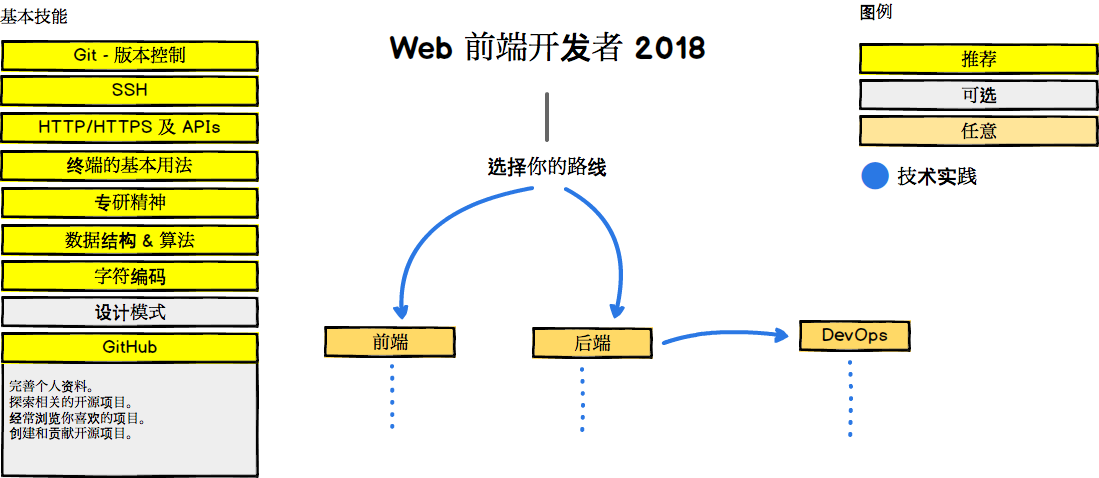
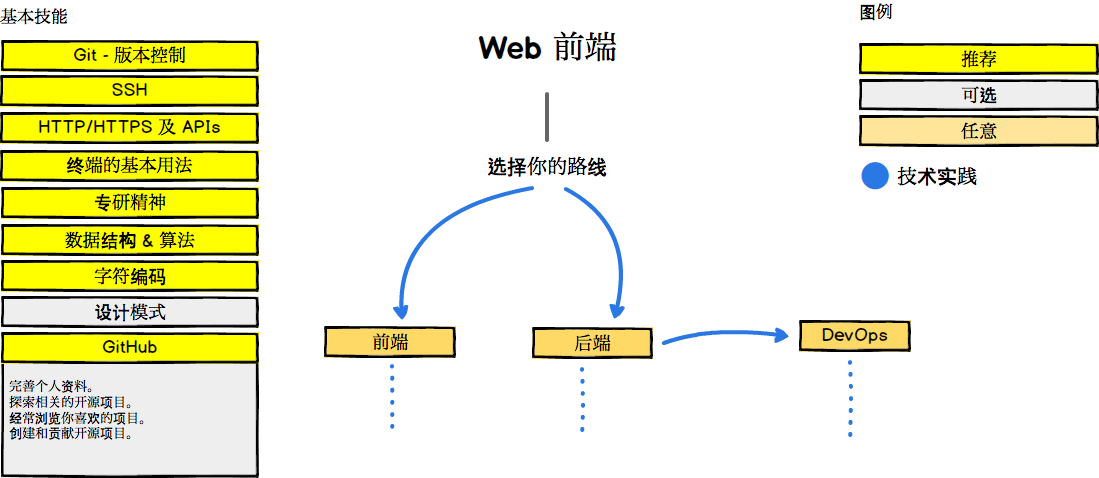
更新文档

Changed region(s): [[0.3403, 0.0586, 0.6497, 0.1464]]

diff --git a/README.md b/README.md
@@ -1,14 +1,12 @@
-## Web 前端开发路线图
+## 开发路线图
 
-2018 年，如何成为一名优秀的 Web 前端开发者？
+2018 年，如何成为一名优秀的开发者？
 
-Below you find a set of charts demonstrating the paths that you can take and the technologies that you would want to adopt in order to become a frontend, backend or a devops. I made these charts for an old professor of mine who wanted something to share with his college students to give them a perspective.
-
-如果你认为这些仍然可以改进，请给我们提供建议或参考。
+如果你认为这些仍需完善，请给我们提供 [反馈](https://github.com/oss-labs/developer-roadmap/issues) 。
 
 ***
 
-<p align="center"><b> Did you like this guide and want more of the similar content? </b><br>Subscribe for the launch of <a href="http://hugobots.com">Hugobots</a> or <a href="http://twitter.com/kamranahmedse">follow me on twitter</a>!</p>
+<p align="center">Web 前端</p>
 
 ***
 
@@ -17,11 +15,11 @@ Below you find a set of charts demonstrating the paths that you can take and the
 
 ![](project-files/intro-map.png)
 
-## 🎨 前端技术
+## 🎨 前端开发
 
 ![](https://i.imgur.com/WrfLESm.png)
 
-## 👽 后端技术
+## 👽 后端开发
 
 For the backend, personally I would prefer Node.js and PHP 7 for the full time. Plus, I have been experimenting lately with Go and I quite like it. Apart from these, if I have to choose another one, I would go for Ruby. However this is just my personal preference, you can choose any of the shown languages and you will be good.
 
